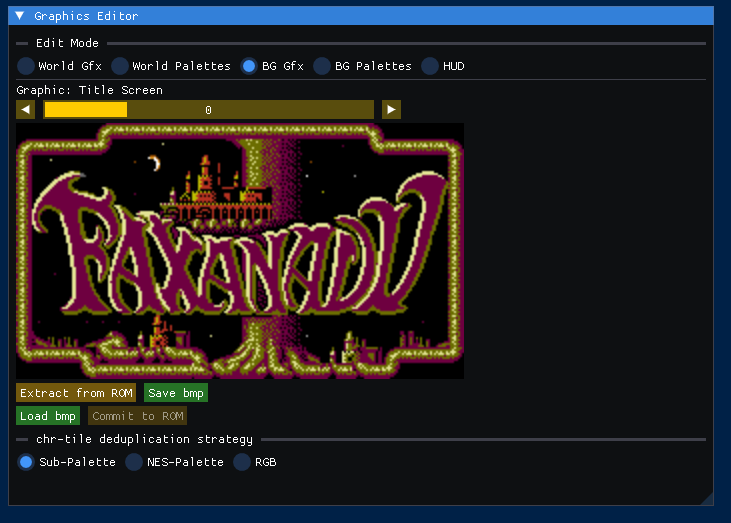
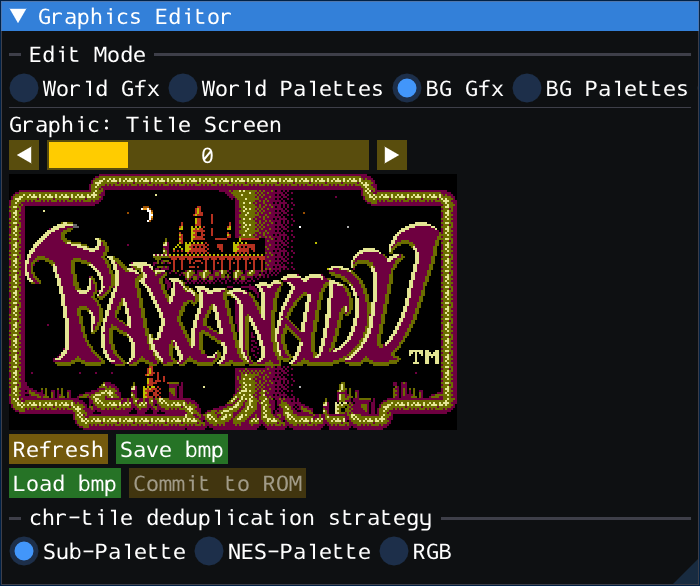
docs: add tileset graphics and metatile guide
- document CHR, tilesets, metatiles, palettes and scene data
- explain building-world graphics and palette overrides
- document BMP importing and import partitioning
- document DynamicTilesets and custom import definitions
- add complete DynamicTilesets import example
- link related documentation to the new guide

diff --git a/docs/tileset-gfx.md b/docs/tileset-gfx.md
@@ -22,6 +22,43 @@ The following sections explain each of these components and how they are represe
 
 # Table of Contents
 
+- [Tileset Graphics and Metatiles](#tileset-graphics-and-metatiles)
+- [CHR Graphics](#chr-graphics)
+- [Tilesets](#tilesets)
+    - [PPU Placement](#ppu-placement)
+- [Metatile Definitions](#metatile-definitions)
+  - [Per-World Definitions](#per-world-definitions)
+- [Palettes](#palettes)
+  - [Adding Color](#adding-color)
+- [Scene Data](#scene-data)
+  - [Overview](#overview)
+  - [Regular Worlds](#regular-worlds)
+  - [Buildings World](#buildings-world)
+- [Palette Overrides](#palette-overrides)
+  - [Same Graphics, Different Appearance](#same-graphics-different-appearance)
+- [Putting It All Together](#putting-it-all-together)
+- [BMP Import](#bmp-import)
+  - [Overview](#overview-1)
+  - [Conversion Process](#conversion-process)
+  - [Shared Tilesets](#shared-tilesets)
+  - [Buildings World Importing](#buildings-world-importing)
+    - [Import Partitioning](#import-partitioning)
+  - [Import Report](#import-report)
+    - [Approximations](#approximations)
+- [DynamicTilesets Hack](#dynamictilesets-hack)
+  - [How It Works](#how-it-works)
+- [Custom Import Definition](#custom-import-definition)
+  - [Overview](#overview-2)
+  - [Parameters](#parameters)
+    - [World Number](#world-number)
+    - [Tileset Number](#tileset-number)
+    - [Palette Number](#palette-number)
+    - [Metatile Range](#metatile-range)
+    - [CHR Range](#chr-range)
+  - [DynamicTileset Example](#dynamictileset-example)
+    - [Preparation](#preparation)
+    - [Import](#import)
+    - [Patching](#patching)
 
 ---
 
@@ -120,7 +157,9 @@ Palette = 2
 
 When the game needs to draw a metatile, it retrieves the four CHR tiles specified by the definition and renders them using the assigned palette.
 
-[Insert metatile editor screenshot]
+Metatile definitions do not reference a tileset directly. They reference CHR tile indexes in the PPU pattern table. The active tileset determines which graphics are loaded at those indexes.
+
+This means the same metatile definition can produce completely different graphics when used with a different tileset.
 
 ## Per-World Definitions
 
@@ -190,8 +229,6 @@ to produce the final background graphics shown to the player.
 Throughout this document, the term *Scene Data* refers specifically to the tileset and palette selection used by a world, or a building screen.
 
 ---
-
-# Scene Data
 
 ## Regular Worlds
 
@@ -592,13 +629,13 @@ This will create a new ROM file `us-512.nes` which we can use as a new base for 
 
 By default tilesets cannot be doubled in vanilla ROMs as the feature consumes an entire 16k bank.
 
-It is possible to enable double tilesets for a vanilla ROM, but then you will not be able to put **anything** else in bank 9, like dynamic tilesets or screen tilemaps. To enable this feature anyway, add the following under `consts` in your `eoe_config_override.xml`:
-
-```xml
-  <const name="tileset_secondary_bank" value="9" />
-```
-
-This tells the editor to use bank 9 for this feature.
+> ℹ **Advanced note**: It is possible to enable double tilesets for a vanilla ROM, but then you will not be able to put **anything** else in the only free bank (bank 9) like dynamic tilesets or screen tilemaps. To enable this feature anyway, add the following under `consts` in your `eoe_config_override.xml`:
+> 
+> ```xml
+>   <const name="tileset_secondary_bank" value="9" />
+> ```
+> 
+> This tells the editor to use bank 9 for this feature.
 
 We have also prepared a bmp-file with 14 new metatiles. (the last two are copies of the empty tile and can be disregarded for this example)
 
@@ -660,7 +697,7 @@ which means we were well within our chr-budget. We allowed the importer to use t
 
 Any unused chr-tile during bmp-import will be made "empty" to indicate free space. If we want to preserve the rest of the chr-tiles, we can slide the end-index back and import again. (the import will not make any changes to our data before we commit)
 
-When `Writable CHR start` is 128 and `Writable CHR end` is 162, if we Load bmp, the output will say:
+When `Writable CHR start` is 128 and `Writable CHR end` is 162, and we `Load bmp`, the output will say:
 
 ```text
 0 chr-tiles to spare, 0 chr-tiles approximated
@@ -676,17 +713,17 @@ Going back to the Tilemap Editor, we will see 14 new strange-looking metatiles f
 
 We want screen 1 to render under our new palette 1, so go to the door data for Eolis screen 0, and change "Destination palette/music" to 1.
 
-In the tilemap editor let us go to Eolis screen 1 via "Enter door" so that palette 1 takes effect. We now want to make screen 1 using our new Mega Man metatiles. Go to `World 0 (Eolis) Metadata > Scene` and set tileset to 9 - which is the tileset we imported chr-tiles to.
+In the tilemap editor let us go to Eolis screen 1 via "Enter door" so that palette 1 takes effect. We now want to make screen 1 using our new Mega Man metatiles. Go to `World 0 (Eolis) Metadata > Scene` and set tileset to 9 - which is the tileset we imported chr-tiles to. We will then see the screen as it will look during runtime, after the dynamic tileset switch has taken place.
 
 ![update Scene data](./img/examples/dynamic_tileset/temporary-scene-data.png)
 
 The tilemap for screen one will now look like this:
 
-![update Scene data](./img/examples/dynamic_tileset/w0s1-undrawn.png)
+![Screen 1 with new tileset](./img/examples/dynamic_tileset/w0s1-undrawn.png)
 
-Screen one is now drawn with the wrong tileset, but the last 14 metatiles now make sense. We can update these metatiles with new properties (they might all have property "Air" right now), and draw the screen.
+Screen one is now drawn with the wrong tileset, but the last 14 metatiles now make sense. We can update these metatiles with new properties (they might all have property "Air" right now), and draw a screen using these 14 metatiles.
 
-Once the screen is drawn **remember to set Eolis default tileset back to 0** in the Scene data.
+⚠ Once the screen is drawn **remember to set Eolis default tileset back to 0** in the Scene data.
 
 ### Patching
 
@@ -700,7 +737,11 @@ In `eoe_config_override.xml` it will look like this:
  </string>
  ```
 
- This tells the `DynamicTilesets` hack that for world `0`, screen `1` - use tileset 9 instead of the world default.
+ This says we will install general hack `DynamicTilesets`, and that for world `0`, screen `1` - it will use tileset `9` instead of the world default.
+
+ To add more dynamic tileset screens, combine entries with `+`, for example `DynamicTilesets data=0:1:9+2:3:12` etc.
+
+ Tilesets do not change on regular scrolling connections as mentioned, so make sure to partition a world using multiple tilesets using sameworld doors and sameworld transitions. These can both take palette overrides.
 
  Patch ROM and start the game in an emulator. The very first screen should look normal, but when entering the door to screen 1, you should now see the screen you created with new tiles. 
 

diff --git a/docs/user-guide.md b/docs/user-guide.md
@@ -601,7 +601,7 @@ The number of chr-tiles the picture processing unit (ppu) of the nes can access 
 
 In this edit mode, you can extract a world's (or building screen's) metatiles as a bmp - and import one back in.
 
-* Extract from ROM: Make a texture out of your current metatile definitions and show them as an image.
+* Refresh: Make a texture out of your current metatile definitions and show them as an image.
 * Save bmp: Save the tilemap as a bmp. The output messages will tell you where it was stored.
 * Load bmp: Import a bmp as a metatile tilemap, and render it here. The rendering will show you what your import will look like in the game.
 
@@ -621,6 +621,8 @@ The importer will not generate any new metatiles, it will only update the graphi
   * Sub-Palette: chr-tiles are considered equal only if they have the same byte output (strict)
   * NES-palette: chr-tiles are considered equal if their palette indexes resolve to the same NES-palette colors. If you only need your metatiles to show in the context of one single palette, this is a good option.
   * RGB: chr-tiles are considered equal if they resolve to the same RGB-colors after applying the NES palette and resolving its rgb-values defined in the config xml. (loose)
+
+  The dropdown `Advanced: Custom Import Definition` contains an advanced import feature described in the document [Tileset Graphics and Metatiles](./tileset-gfx.md)
 
 ## World palettes
 

diff --git a/docs/general-hacks.md b/docs/general-hacks.md
@@ -198,6 +198,8 @@ DynamicTilesets start_screen=false enter_building=false exit_building=false data
 
 DynamicTilesets changes which CHR tileset is loaded; it does not change a world's metatile definitions. Alternate tilesets should therefore use a compatible tile layout for the screens and metatiles that use them. In the vanilla game, the buildings world uses a shared set of metatile definitions, but 3 different tilesets. They partitioned 256 metatiles across the tilesets, and such an approach can be taken when using this feature. Use the advanced **Custom Import Definition** in the GUI to import graphics into specific metatile and tileset CHR ranges.
 
+See the document [Tileset Graphics and Metatiles](./tileset-gfx.md) for an example of how to use this hack in practice.
+
 ### PoisonPickup
 
 Changes poison pickups so that they add an item to the player's inventory instead of damaging the player. By default, poison becomes the Red Potion (`0x10`).

diff --git a/readme.md b/readme.md
@@ -17,6 +17,7 @@ See the [documentation](./docs/user-guide.md) for a detailed overview of the edi
 ## Quick Links
 
 - [Main User Documentation](./docs/user-guide.md)
+  - [Tileset Graphics and Metatiles](./docs/tileset-gfx.md)
 - [Command-Line Documentation](./docs/cli-guide.md)
 - [Scripting Documentation](./docs/scripting-guide.md)
   - [Script Recipes](./docs/script-recipes.md)
